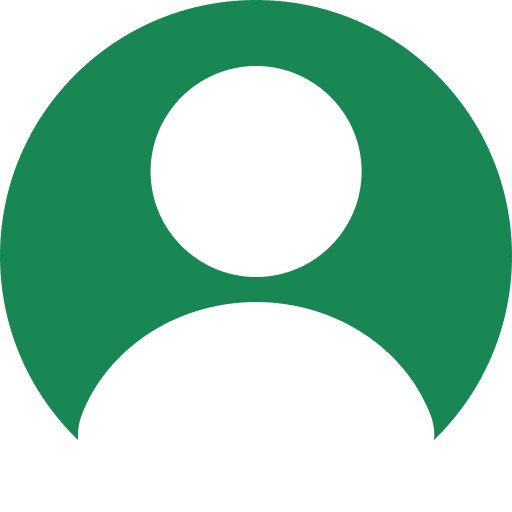
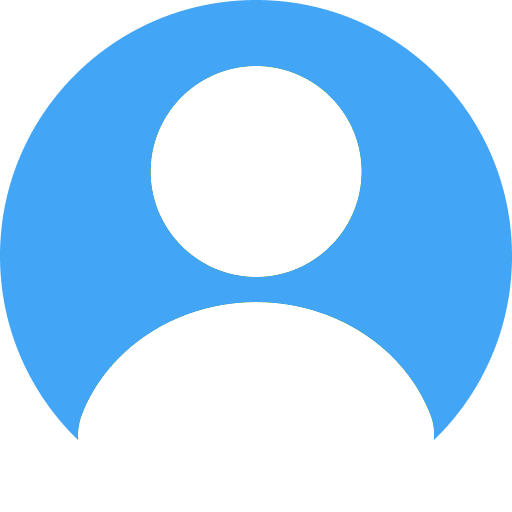
improve the fronend appearance of ai lab

diff --git a/frontend/src/components/chats/ChatInput.jsx b/frontend/src/components/chats/ChatInput.jsx
@@ -1,7 +1,10 @@
 import { useState } from 'react'
 import axios from "axios";
+import Stack from '@mui/material/Stack';
+import SendIcon from '@mui/icons-material/Send';
+import Button from '@mui/material/Button';
 import CircularProgress from '@mui/material/CircularProgress';
-import './ChatInput.css';
+import TextField from '@mui/material/TextField';
 
 const API_BASE_URL = import.meta.env.VITE_API_BASE_URL;
 
@@ -62,18 +65,34 @@ export function ChatInput({ chatMessages, setChatMessages }) {
   }
 
   return (
-    <div className="chat-input-container">
-      <input
+    <Stack direction="row"
+           spacing={3}
+           sx={{
+              justifyContent: "center",
+              alignItems: "center",
+            }}
+    >
+      <TextField
         placeholder="Send a message to AI"
-        size="30"
         onChange={saveInputText}
         value={inputText}
-        className="chat-input"
+        sx={{
+          '& .MuiInputBase-input': {
+            padding: 1,
+          },
+        }}
+        fullWidth
       />
-      <button
+      <Button
         onClick={sendMessage}
-        className="send-button"
-      >Send</button>
-    </div>
+        variant="contained"
+        endIcon={<SendIcon />}
+        sx={{ height: '30px',
+          backgroundColor: "primary.light"
+        }}
+      >
+        Send
+      </Button>
+    </Stack>
   );
 }

diff --git a/frontend/src/components/views/AgentChatView.css b/frontend/src/components/views/AgentChatView.css
@@ -1,9 +1,9 @@
 .app-container {
-  max-width: 600px;
+  max-width: 700px;
   margin-left: auto;
   margin-right: auto;
 
-  height: 95vh;
+  height: 88vh;
   display: flex;
   flex-direction: column;
 }

diff --git a/frontend/src/components/chats/ChatMessage.css b/frontend/src/components/chats/ChatMessage.css
@@ -20,5 +20,5 @@
 }
 
 .chat-message-profile {
-  width: 45px;
+  width: 48px;
 }